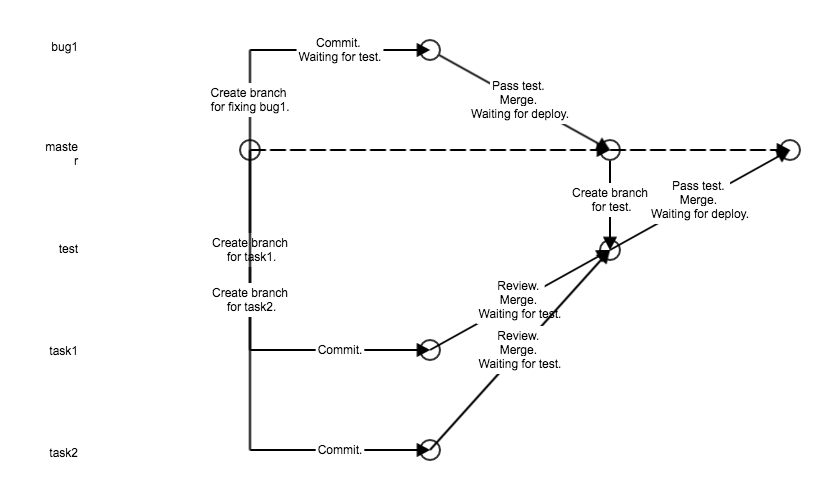
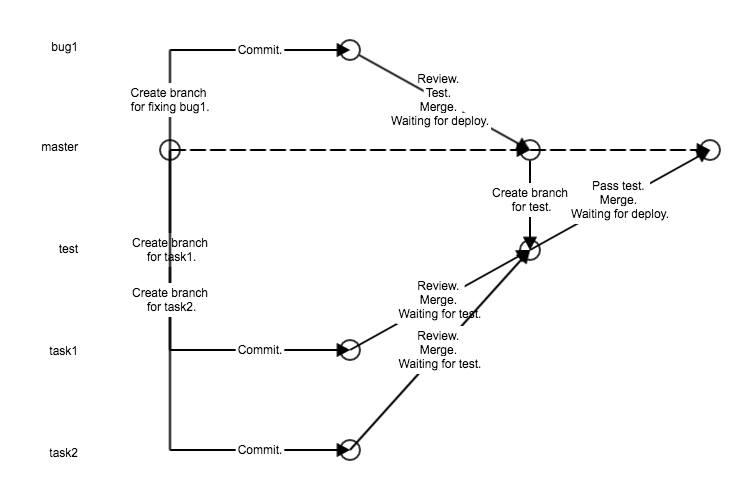
Add more information.

diff --git a/README.md b/README.md
@@ -1,2 +1,8 @@
 <img src="./git-flow.png">
 
+Master branch must always be ready for deploy.
+
+The "bug" flow is only for emergency. Normal bug should be treated as a task.
+
+Review with "Pull request" method. Task Branch => Test Branch. Bug Branch => Master Branch(Without merge).
+
